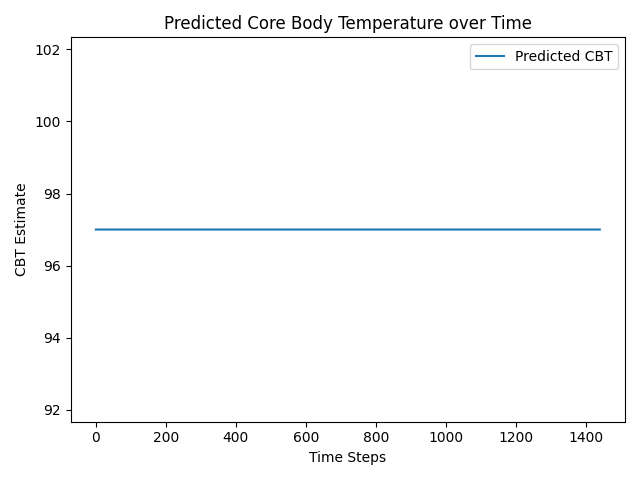
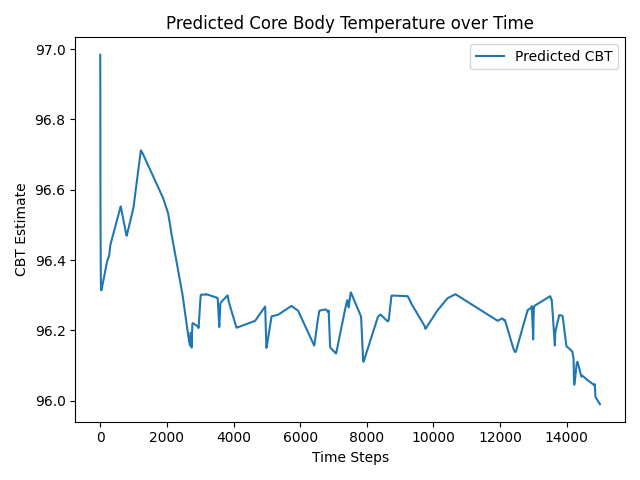
eah i in fact did not push this mb

diff --git a/CoreBodyTemp/my_kalman_filter.py b/CoreBodyTemp/my_kalman_filter.py
@@ -60,6 +60,7 @@ time_vals = range(0, len(processed_basal_rate))
 
 # Number of time steps based on your data length
 n_steps = len(processed_basal_rate)
+print("N steps: ", n_steps)
 
 # Create zs matrix: (n_steps, 3) where each row corresponds to measurements at one time step
 zs = np.column_stack((processed_basal_rate, processed_heart_rate, processed_respiratory))
@@ -150,13 +151,8 @@ omega = np.pi/6
 # Kalman filter loop: Predict and update steps | here I am also finding the residuals inside the Kalman filter loop
 def run_kalman_filter(X, P, R, Q, F, H, zs, n_steps):
     kf = initialize_kalman_filter(X, P, R, Q, F, H)
-<<<<<<< HEAD
-    #F_rotation = make_F(omega)
-    #kf_rot = initialize_kalman_filter(X, P, R, Q, F_rotation, H)
-=======
     F_rotation = make_F(omega)
     kf_rot = initialize_kalman_filter(X, P, R, Q_filterpy, F_rotation, H)
->>>>>>> e9a8d090a2d3a505af6ae62ec8607dc2e409bb6c
     # Arrays to store state estimates and covariances
     xs, cov = [], []
     xs_rot = []
@@ -167,13 +163,13 @@ def run_kalman_filter(X, P, R, Q, F, H, zs, n_steps):
         theta_xw = omega_xw * i * dt
 
         kf.predict()  # Predict the next state
-        #kf_rot.predict()
+        kf_rot.predict()
         z = zs[i]     # Get the measurements for this time step
         kf.update(z)  # Update with the measurement
-        #kf_rot.update(z)
+        kf_rot.update(z)
 
         xs.append(kf.x)  # Store the state estimate
-        #xs_rot.append(kf_rot.x)
+        xs_rot.append(kf_rot.x)
         cov.append(kf.P) # Store the covariance matrix
 
         # Calculate residuals (difference between measurement and prediction)
@@ -184,13 +180,13 @@ def run_kalman_filter(X, P, R, Q, F, H, zs, n_steps):
     # Convert results to numpy arrays for easy handling
     xs = np.array(xs)
     cov = np.array(cov)
-    #xs_rot = np.array(xs_rot)
+    xs_rot = np.array(xs_rot)
     residuals = np.array(residuals) 
 
-    return xs, cov, residuals
+    return xs_rot, cov, residuals
 
 # Run the Kalman filter with your data
-xs, Ps, residuals = run_kalman_filter(X, P, R, Q_manual, F, H, zs, n_steps)
+xs, Ps, residuals = run_kalman_filter(X, P, R, Q_filterpy, F, H, zs, n_steps)
 
 # xs now contains state estimates, including core body temperature estimates over time
 print(type(xs))
